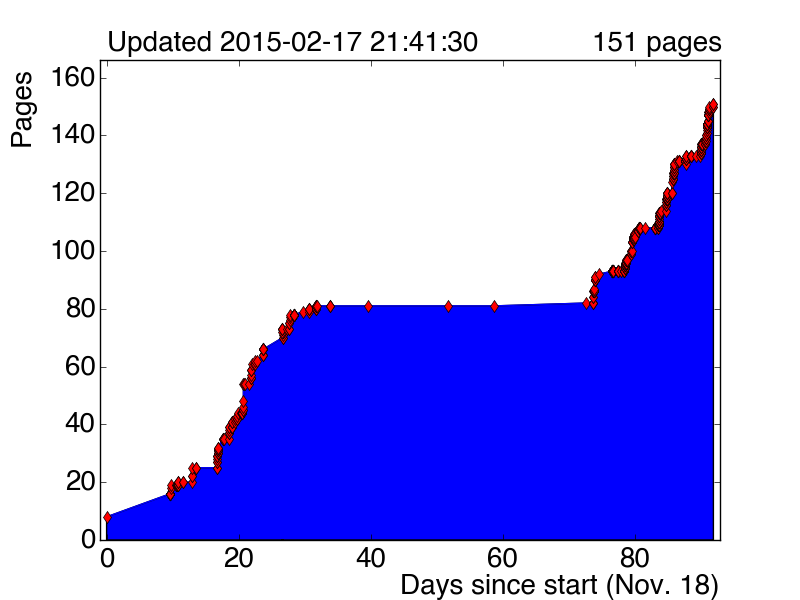
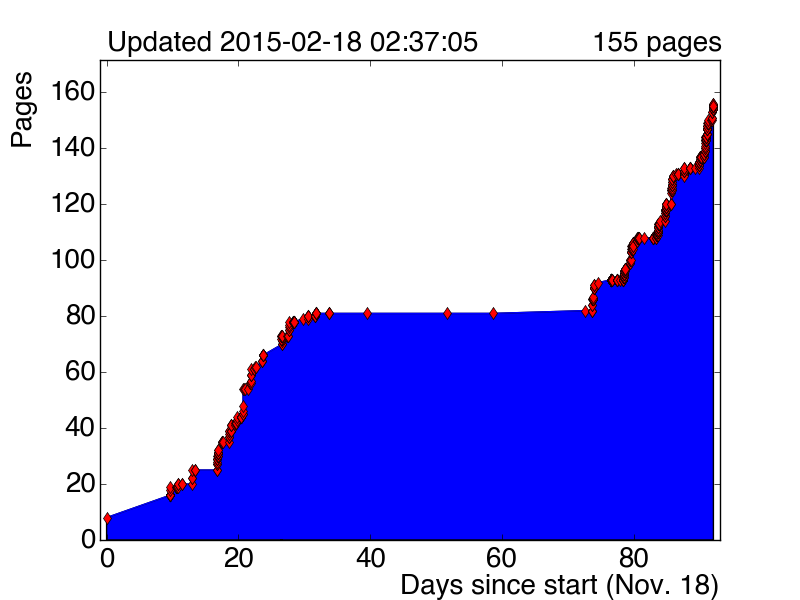
bangin results

diff --git a/tex/results.tex b/tex/results.tex
@@ -5,14 +5,93 @@
   Results of the $\Htautau$ analysis are described. This is described in additional detail in the recent ATLAS $\Htautau$ publication~\cite{HIGG-2013-32}. The description of the fit procedure draws heavily from the recent ATLAS $\HWW$ publication~\cite{HIGG-2013-13}.
 \end{quote}
 
+The yields of signal and background processes are extracted from a statistical analysis of the data and the predictions described in \cref{chap:strategy,chap:backgrounds}. A likelihood function is maximized which provides the ``best fit'' of the prediction to the data in each bin of the BDT discriminators within their prescribed uncertainties.
+
+The likelihood contains the data and prediction from six signal regions: three final states, two categories. Control regions are also used to constrain some background uncertainties. For example, a region of data rich in top events is used in the $\tautaulh$ analysis to constrain the normalization on the portion of the top background predicted with simulation.
+
 \section{Fit procedure}
 \label{sec:results-fit-procedure}
+
+The statistical analysis maximizes a likelihood function $\Lang$ which depends on the signal strength $\mu$, the set of uncertainties (or nuisance parameters) $\theta_i$, and the observed number of data events $N$. The signal strength is defined as the measured $\Htautau$ cross-section divided by the predicted $\Htautau$ cross-section. A measured $\mu=1$ would imply exactly the same number of $\Htautau$ events are observed as expected.
+
+\subsection{Likelihood function}
+
+The likelihood function is the product of four classes of probability functions.
+%
+\begin{description}
+    \item[Observed data in the signal region bins:] \hfill \\
+      Poisson function $f\left(N \ | \ \sig + \bkg\right)$ for the probability of observing $N$ events given a prediction $\sig + \bkg$ in each BDT bin
+
+    \item[Observed data in the control regions:] \hfill \\
+      Poisson function $f\left(N \ | \ \bkg\right)$ for the probability of observing $N$ events given a prediction $\bkg$ in each control region
+
+    \item[Gaussian uncertainties:] \hfill \\
+      Unit Gaussian function $g$ representing the systematic uncertainties. The mean and standard deviation are defined to be 0 and 1, respectively.
+
+    \item[Prediction sample statistics:] \hfill \\
+      Poisson function $f$ representing the statistical uncertainties given the finite sample size of the predictions
+
+\end{description}
+%
+
+\subsection{Features}
+
+The first term of the likelihood is maximized when the prediction $\sig + \bkg$ exactly matches the observed data events in a given bin, and the prediction is allowed to change within the maximization as the nuisance parameters are pulled. This allowed change is restricted by the Gaussian constraints imposed on these uncertainties, which are maximized when the nuisance parameters are unchanged from their pre-fit prediction. For example, the jet energy scale is allowed to be moved by $+1\sigma$, but this incurs a penalty in the likelihood of $\frac{g(1|0,1)}{g(0|0,1)}\approx 0.6$. The linear response function for modifying backgrounds within uncertainties is given by $\nu_b(\theta) = 1 + \theta\tim\frac{\Delta_b}{N_b}$. 
+
+The normalization of the embedded $\Ztautau$ is allowed to float freely within each final state, i.e., there is no constraint beyond the signal region statistics. In the $\tautaulh$ channel, a single normalization nuisance parameter is used for $\Ztautau$ which is shared in each BDT bin of each category. This is sensible because the defining features of the categories -- dijet kinematics and $\pt^Z$ -- are expected to be well predicted by the embedding method.
+
+The likelihood maximization extracts many fitted parameters, including the signal strength $\mu$, the pulls of the nuisance parameters $\theta_i$, and the uncertainties on the nuisance parameters in units of the pre-fit uncertainties (i.e., $\Delta_{\theta,\text{pre-fit}} = 1$).
+
+\subsection{Test statistic}
+
+The test statistic is defined as:
+%
+\begin{equation}
+  \begin{split}
+    q(\mu) &= -2\ \text{ln} \left(\frac{\Lang(\mu, \theta_i)}{\Lang_\text{max.}}\right) \Bigg\rvert_{\theta_i = \hat{\theta}_{i,\mu}} \\
+  \end{split}
+  \label{eqn:test-statistic}
+\end{equation}
+%
+and is evaluated as a function of $\mu$. The denominator $\Lang_\text{max.}$ is the unconditional maximum of the likelihood as a function of $\mu$ and the nuisance parameters $\theta_i$ and is therefore just a number. The numerator $\Lang(\mu, \theta_i)$ is the conditional maximum for a given $\mu$ as a function of the nuisance parameters, thereby asking which signal strength is most likely.
+
+The fitted uncertainty on a nuisance parameter is defined as the distance $\theta_\text{right} - \theta_\text{left}$ such that $q(\mu) = 1$ when scanning a given nuisance parameter to the right and left of the fitted $\theta$.
+
+\subsection{Impact of uncertainties on $\mu$}
+
+The post-fit \textit{impact} of a given nuisance parameter on the signal strength is defined as:
+%
+\begin{equation}
+  \begin{split}
+    \Delta_{\hat{\mu}, i} &= \hat{\mu}\left(\hat{\theta}_i \pm \Delta_{\hat{\theta}_i}\right) - \hat{\mu} \\
+  \end{split}
+  \label{eqn:impact}
+\end{equation}
+%
+where hats indicate post-fit values. $\hat{\mu}\left(\hat{\theta}_i \pm \Delta_{\hat{\theta}_i}\right)$ indicates the fitted $\mu$ of the full fit but with $\theta_i$ fixed to its post-fit value $\hat{\theta}$ varied by the post-fit uncertainty $\pm\Delta_{\hat{\theta}, i}$, where all other nuisance parameters are floating. If the fitted $\mu$ is robust against changes to a nuisance parameter, its impact will be small. If the fitted $\mu$ is strongly dependent on a nuisance parameter, however, 
 
 \section{Fit results}
 \label{sec:results-fit-results}
 
-\clearpage
+The data and fitted signal and background predictions are shown in \cref{fig:results-bdts}. The majority of bins in the BDTs are dominated by background, and good modeling is observed. In the signal-like regime of BDT output near 1, the predicted contribution from $\Htautau$ signal is visible in the VBF category of each final state, and the signal hypothesis is favored over the background-only hypothesis.
 
+The yields in the VBF $\Htautaulh$ category and in the most signal-like regime are shown in \cref{tab:results-yields} after the global fit. In the highest BDT bin, the signal hypothesis is favored over the background-only hypothesis.
+
+\begin{table}[bp] 
+  \centering
+  \renewcommand{\arraystretch}{1.4}
+  \caption{Data and the predicted yields of signal and background in the VBF $\tautaulh$ category after the global fit.}
+  \input{tables/results-yields}
+  \label{tab:results-yields}
+\end{table}
+
+At the value of the Higgs boson mass obtained from the combination of the ATLAS $\Hyy$ and $\HZZ$ measurements, the signal strength obtained is $1.4 \pm 0.3 \text{syst.} \pm 0.3 \text{stat.} \pm 0.1 \text{theo.}$. The signal strength breakdown by category and channel is shown in \cref{fig:results-musummary}.
+
+The probability $p_0$ of obtaining a result at least as signal-like as observed in the data if no signal were present is calculated using the test statistic $q(0)$. For $m_H = 125.36$ GeV, the observed $p_0$ is $2.7 \times 10^{-6}$, which corresponds to a deviation from the background-only hypothesis of 4.5$\sigma$.  This can be compared to an expected significance of 3.4$\sigma$.
+
+To emphasize the most signal-like regime, two distributions are built from the six categories used in the global fit and shown in \cref{fig:results-money-plots}. First, the signal region bins of the BDT discriminator are re-ordered by $\log_{10}(S/B)$, where $S/B$ is the signal-to-background ratio calculated assuming $\mu=1.4$ in each bin. The expected signal yield for both $\mu=1$ and $\mu=1.4$ is shown, as well as the fitted background yield for the background-only hypothesis. The signal hypothesis is clearly favored. Second, the $\mMMC$ distribution is shown summed across all categories and weighted event-by-event by $\ln(1+S/B)$, which enhances the events compatible with the signal hypothesis. The excess of events in this mass distribution is consistent with the expectation for a Standard Model Higgs boson with $m_H = 125$ GeV.
+
+\clearpage
 \begin{figure}[tp]
   \centering
   \includegraphics[width=0.48\textwidth]{figures/HIGG-2013-32/fig_08b}
@@ -24,8 +103,14 @@
   \caption{Distributions of the 8 TeV BDT discriminants in all six analysis categories after the global fit~\cite{HIGG-2013-32}.}
   \label{fig:results-bdts}
 \end{figure}
-
 \clearpage
+
+\begin{figure}[tp]
+  \centering
+  \includegraphics[width=0.90\textwidth]{figures/HIGG-2013-32/fig_09}
+  \caption{The fitted signal strength $\mu$ split by category, final state, and data-taking period~\cite{HIGG-2013-32}.}
+  \label{fig:results-musummary}
+\end{figure}
 
 \begin{figure}[tp]
   \centering
@@ -37,35 +122,16 @@
 
 \begin{figure}[tp]
   \centering
-  \includegraphics[width=0.48\textwidth]{figures/HIGG-2013-32/fig_12}
-  \includegraphics[width=0.48\textwidth]{figures/HIGG-2013-32/fig_14}
-  \caption{Two-dimensional contours of the fitted signal strength $\mu$ comparing VBF and ggF production mechanisms (left) and the local $p_0$ for the MVA and cuts-based analyses as a function of the Higgs mass hypothesis (right)~\cite{HIGG-2013-32}.}
-  \label{fig:results-mup0}
-\end{figure}
-
-\begin{figure}[tp]
-  \centering
   \includegraphics[width=0.90\textwidth]{figures/HIGG-2013-32/uncertainties}
   \caption{Comparison of the impact of the statistical and systematic uncertainties on the absolute uncertainty on $\mu$~\cite{HIGG-2013-32}.}
   \label{fig:results-uncertainties-1}
 \end{figure}
-
-\clearpage
 
 \begin{figure}[tp]
   \centering
   \includegraphics[width=0.90\textwidth]{figures/HIGG-2013-32/fig_07}
   \caption{Comparison of the impact and pull of the dominant individual systematic uncertainties on the absolute uncertainty on $\mu$~\cite{HIGG-2013-32}.}
   \label{fig:results-uncertainties-2}
-\end{figure}
-
-\clearpage
-
-\begin{figure}[tp]
-  \centering
-  \includegraphics[width=0.90\textwidth]{figures/HIGG-2013-32/fig_09}
-  \caption{The fitted signal strength $\mu$ split by category, final state, and data-taking period~\cite{HIGG-2013-32}.}
-  \label{fig:results-musummary}
 \end{figure}
 
 \section{High score events in data}

diff --git a/tex/backgrounds.tex b/tex/backgrounds.tex
@@ -480,6 +480,10 @@ The pre-fit impact of these uncertainties on the VBF $\Htautau$ prediction is sh
 \section{Predictions in the signal region}
 \label{sec:results-prefit}
 
+Predictions in the signal region of the VBF $\Htautaulh$ analysis are shown in \cref{fig:results-SR-inputs}. These input variables feed into the BDT discriminator from which the signal is extracted, which is discussed in \cref{chap:results}. The largest background is from $\fakes$, the second largest background is from $\Ztautau$, and the remaining backgrounds are individually less than 5\% of the total background prediction.
+
+Good agreement between data and prediction is observed for all input variables. This agreement is evaluated with visual inspection and with quantitative measures like $\chi^2/\text{N(D.O.F)}$ and the Kolmogorov-Smirnov test.
+
 \clearpage
 
 \begin{figure}[tp]
@@ -501,6 +505,10 @@ The pre-fit impact of these uncertainties on the VBF $\Htautau$ prediction is sh
 
 \section{$\Htautauhh$ and $\Htautaull$}
 \label{sec:backgrounds-hhll}
+
+Selected predictions in the signal regions of the VBF $\Htautauhh$ and $\Htautaull$ analyses are shown in \cref{fig:backgrounds-hadhad,fig:backgrounds-leplep}. Good agreement between data and prediction is observed for the input variables.
+
+The background predictions are conceptually similar to the predictions in the $\Htautaulh$ analysis: $\Ztautau$ is predicted with the embedding, mis-identified backgrounds ($\fakes$, $\jfakel$) are predicted with regions of data topologically similar to the signal region but with object-level identification criteria reversed, and the remaining backgrounds are predicted with simulation. The background predictions in these are discussed in greater detail in the accompanying publication~\cite{HIGG-2013-32}.
 
 \begin{figure}[tp]
   \centering

diff --git a/tables/results-yields.tex b/tables/results-yields.tex
@@ -1,0 +1,22 @@
+\begin{tabular}{l|ccc}
+  Process/Category  & \multicolumn{3}{c}{VBF} \\
+  \hline
+  BDT output bin    & All bins      & Second to last bin & Last bin    \\
+  \hline
+  $\fakes$          & $1680 \pm 50$ & $ 8.2 \pm 0.9$ & $5.2  \pm 0.7$  \\
+  $\Ztautau$        & $ 877 \pm 29$ & $ 7.6 \pm 0.9$ & $4.2  \pm 0.7$  \\
+  Top               & $  82 \pm 15$ & $ 0.3 \pm 0.4$ & $0.5  \pm 0.4$  \\
+  $\Zll$ $(\lfake)$ & $  54 \pm 26$ & $ 1.0 \pm 0.7$ & $0.30 \pm 0.28$ \\
+  Diboson           & $  63 \pm 11$ & $ 1.0 \pm 0.4$ & $0.48 \pm 0.20$ \\
+  \hline
+  ggF $\Htautau$    & $  16 \pm 6$  & $ 1.0 \pm 0.4$ & $1.2  \pm 0.6$  \\
+  VBF $\Htautau$    & $  31 \pm 8$  & $ 4.5 \pm 1.1$ & $9.1  \pm 2.2$  \\
+  $W\Htautau$       & $ < 1$        & $< 0.1$        & $< 0.1$         \\
+  $Z\Htautau$       & $ < 1$        & $< 0.1$        & $< 0.1$         \\
+  \hline
+  Total background  & $2760 \pm 40$ & $18.1 \pm 2.3$ & $10.7 \pm 2.7$  \\
+  Total signal      & $  48 \pm 12$ & $ 5.5 \pm 1.3$ & $10.3 \pm 2.5$  \\
+  \hline
+  Data              & 2830          & 22             & 21             \\
+\end{tabular}
+

diff --git a/pages.md b/pages.md
@@ -601,3 +601,30 @@
 + [2015-02-17-21h32m00s] 150
 + [2015-02-17-21h40m09s] 151
 + [2015-02-17-21h41m30s] 151
++ [2015-02-17-21h56m29s] 153
++ [2015-02-17-22h49m59s] 153
++ [2015-02-17-23h35m03s] 154
++ [2015-02-17-23h36m10s] 154
++ [2015-02-17-23h40m51s] 154
++ [2015-02-17-23h41m36s] 154
++ [2015-02-17-23h47m19s] 154
++ [2015-02-17-23h55m48s] 154
++ [2015-02-18-00h20m36s] 154
++ [2015-02-18-01h00m24s] 154
++ [2015-02-18-01h07m15s] 155
++ [2015-02-18-01h07m51s] 155
++ [2015-02-18-01h08m19s] 155
++ [2015-02-18-01h08m50s] 155
++ [2015-02-18-01h09m24s] 155
++ [2015-02-18-01h10m22s] 155
++ [2015-02-18-01h10m58s] 155
++ [2015-02-18-01h33m41s] 155
++ [2015-02-18-01h35m03s] 155
++ [2015-02-18-01h36m10s] 155
++ [2015-02-18-01h36m41s] 155
++ [2015-02-18-01h39m52s] 155
++ [2015-02-18-01h48m37s] 155
++ [2015-02-18-01h48m57s] 155
++ [2015-02-18-02h20m10s] 156
++ [2015-02-18-02h34m04s] 156
++ [2015-02-18-02h37m05s] 155
